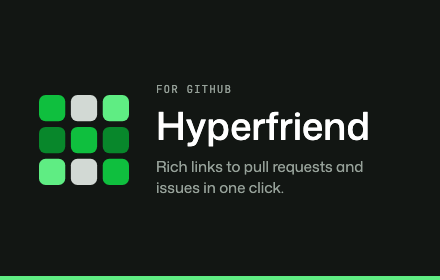
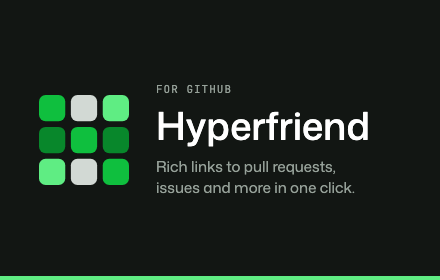
Update store images for the 2.2 to 2.6 features
- Regenerate the four promo tiles and the three popup screenshots from the
  current build (new placeholders, copy format, Discussions and workflow runs,
  GitHub Enterprise section).
- Update the promo and popup captions to mention discussions, workflow runs,
  Markdown and GitHub Enterprise.
- No version change.

Changed region(s): [[0.4432, 0.6571, 0.7977, 0.6857], [0.7386, 0.5714, 0.8273, 0.6286]]

diff --git a/design/store/popup-screenshot.html b/design/store/popup-screenshot.html
@@ -141,17 +141,17 @@
 				templates: {
 					eyebrow: 'Link templates',
 					title: 'Links that read like a sentence',
-					text: 'Choose the link text for pull requests and issues. The preview shows exactly what you paste.',
+					text: 'Choose the link text for pull requests, issues, discussions and runs. The preview shows exactly what you paste.',
 				},
 				shortcuts: {
 					eyebrow: 'Keyboard shortcut',
 					title: 'Copy the link with <kbd>Shift</kbd> <kbd>C</kbd>',
-					text: 'Press it on an open pull request or issue. Pick other keys or turn the shortcut off.',
+					text: 'Press it on an open pull request, issue, discussion or run. Pick other keys or turn the shortcut off.',
 				},
 				general: {
 					eyebrow: 'Team settings',
 					title: 'One link format for the whole team',
-					text: 'Export templates and shortcuts to a JSON file. Teammates import it in one click.',
+					text: 'Choose rich links or Markdown, add your GitHub Enterprise site, and share the settings as a JSON file.',
 				},
 			};
 			const copy = COPY[tab] || COPY.templates;

diff --git a/design/store/promo.html b/design/store/promo.html
@@ -305,7 +305,7 @@
 					<img src="${ICON}" alt="">
 					<span class="eyebrow">Browser extension for GitHub</span>
 					<h1>Hyperfriend</h1>
-					<p>Copy pull request and issue links as rich hyperlinks, ready to paste into Teams, Slack and other chats.</p>
+					<p>Copy pull request, issue, discussion and workflow run links as rich hyperlinks or Markdown, ready to paste into Teams, Slack and other chats.</p>
 				</div>
 				<div class="demo">
 					<div class="list">${rows
@@ -334,7 +334,7 @@
 				<div class="text">
 					<span class="eyebrow">For GitHub</span>
 					<h1>Hyperfriend</h1>
-					<p>Rich links to pull requests and issues in one click.</p>
+					<p>Rich links to pull requests, issues and more in one click.</p>
 				</div>
 				<div class="accent-line"></div>
 			</div>`;
